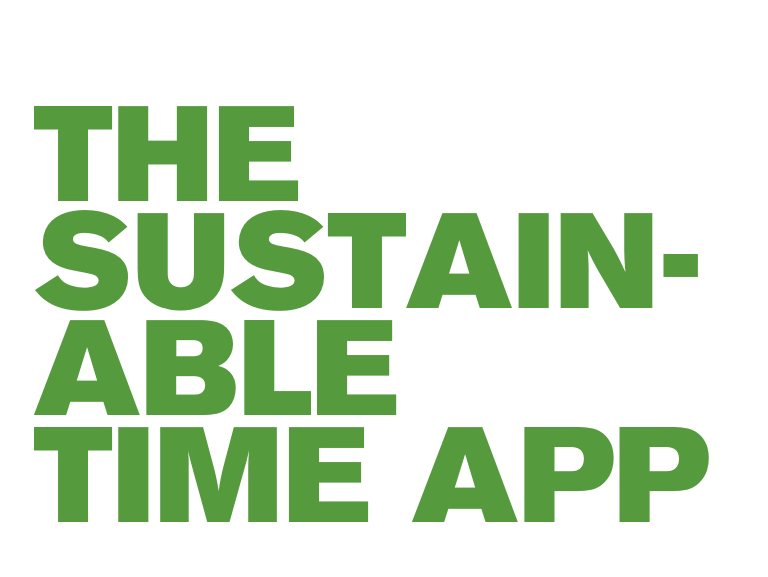
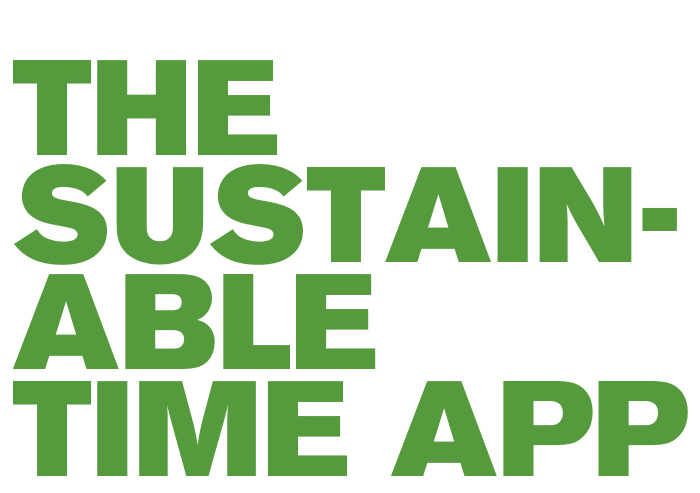
Styling fixed

Changed region(s): [[0.0, 0.1217, 0.99, 0.9736], [0.54, 0.7302, 0.99, 0.9736], [0.24, 0.5172, 0.27, 0.5477]]

diff --git a/code/src/components/activity.css b/code/src/components/activity.css
@@ -1,74 +1,65 @@
 
-.activity input, .activity button {
+.activity {
   display: flex;
   flex-direction: column;
-  flex-wrap: wrap;
-  margin: 10px auto;
-}
-
-.activity form {
   align-items: center;
+  margin-bottom: 10px;
 }
-
+.activity-wrapper {
+  display: flex;
+  flex-direction: column;
+}
 .activity input {
+  align-items: center;
   border: 4px solid #58b0e0;
   color: #58b0e0;
   font-size: 16px;
   font-weight: bold;
   height: 40px;
+  margin-bottom: 6px;
   padding: 4px;
   text-align: center;
-  width: 357px;
+  width: 356px;
 }
-
-.activity button {
+.activity-button {
   align-items: center;
   border: 4px solid #58b0e0;
+  color: #58b0e0;
+  font-size: 16px;
   height: 40px;
   padding-top: 6px;
-  width: 357px;
+  width: 356px;
 }
-.activity button:hover {
+.activity-button:hover {
   background-color: #58e087;
   border: 4px solid #58e087;
   color: white;
 }
-/* It's not fully functional, the  */
-.activity-button span:hover {
-  color: white;
-}
-.button-text {
-  color: #58b0e0;
-  font-size: 16px;
-}
+
 @media (min-width: 900px) {
   .activity input {
     font-size: 26px;
     height: 60px;
     padding: 4px;
-    width: 567px;
+    width: 566px;
   }
-  .activity button {
+  .activity-button {
+    font-size: 26px;
     height: 60px;
-    padding-top: 8px;
-    width: 567px;
-  }
-  .button-text {
-    font-size: 30px;
+    padding-top: 6px;
+    width: 566px;
   }
 }
 @media (min-width: 1120px) {
   .activity input {
     height: 60px;
     padding: 4px;
-    width: 847px;
+    width: 846px;
   }
-  .activity button {
+  .activity-button {
+    font-size: 36px;
     height: 60px;
     padding-top: 6px;
-    width: 847px;
-  }
-  .button-text {
-    font-size: 36px;
+    width: 846px;
   }
 }

diff --git a/code/src/components/activity.js b/code/src/components/activity.js
@@ -24,20 +24,23 @@ class Activity extends React.Component {
     return (
       <div className="activity">
         <form onSubmit={this.handleOnSubmit}>
-          <label>
-            <input
-              type="text"
-              name="activity"
-              placeholder="Type activity here"
-              value={this.state.newActivity}
-              onChange={this.handleOnChange}
-            />
-          </label>
-          <button className="activity-button">
-            <span className="button-text">
-              Click to submit activity
-            </span>
-          </button>
+          <div className="activity-wrapper">
+            <label>
+              <input
+                type="text"
+                name="activity"
+                placeholder="Type activity here"
+                value={this.state.newActivity}
+                onChange={this.handleOnChange}
+              />
+            </label>
+
+            <button className="activity-button">
+
+                Click to submit activity
+
+            </button>
+          </div>
         </form>
       </div>
     )

diff --git a/code/src/components/header.js b/code/src/components/header.js
@@ -8,10 +8,12 @@ class Header extends React.Component{
         <div className="header-image-container">
           <img className="header-image" src= { require('./images/time.jpeg') }  />
         </div>
-        <p>With this app you are able to track the time you spend on the activities of your choice.</p>
-        <div>
-          <p>1. Define the activity you want to track using the "Add Activity" field below.</p>
-          <p>2. Submit the time (minutes) you are dedicating to that activity.</p>
+        <h2>This app allows you to track the time spent on any activity of your choice.</h2>
+        <div className="instructions">
+          <p>1. Type and submit your activity with the form below.</p>
+          <p>2. Choose a day inside of your activity by clicking on it.</p>
+          <p>3. Input the time in minutes.</p>
+          <p>4. You can update that day by clicking again on it.</p>
         </div>
       </div>
     )

diff --git a/code/src/components/header.css b/code/src/components/header.css
@@ -1,42 +1,35 @@
 * {
-font-family: 'Roboto', sans-serif;
+font-family: 'Helvetica', sans-serif;
 }
 
 .header {
+  font-size: 14px;
   margin: 0px auto;
   padding: 0px;
-  width: 357px;
+  text-align: justify;
+  width: 356px;
 }
-
-.header h1 {
-  font-size: 30px;
-  text-align: center;
-}
-
-.header p {
-  font-size: 14px;
-  text-align: center;
-}
-
-.header ol {
-  font-size: 14px;
-  text-align: center;
-}
-
 .header-image {
   height: auto;
-  width: 357px;
+  width: 356px;
 }
-
-h1 {
-  color: #8dc746;
+.instructions {
+  text-align: left;
 }
 
 @media (min-width: 900px) {
   .header {
-    width: 567px;
+    width: 566px;
   }
-.header-image {
-  width: 567px;
+  .header-image {
+    width: 566px;
+  }
 }
+@media (min-width: 1120px) {
+  .header {
+    width: 846px;
+  }
+  .header-image {
+    width: 846px;
+  }
 }

diff --git a/code/src/components/day.js b/code/src/components/day.js
@@ -20,8 +20,8 @@ class Day extends React.Component {
       }
       else if(time == null) {
       }
-        else {
-        this.props.callbackTimeTable(time, this.props.indexcolumn, this.props.indexrow)
+      else {
+      this.props.callbackTimeTable(time, this.props.indexcolumn, this.props.indexrow)
       }
   }
 

diff --git a/code/src/components/calendar.css b/code/src/components/calendar.css
@@ -25,6 +25,9 @@
   text-align: center;
   width: 50px;
 }
+.last-daybox {
+  margin-right: 0px;
+}
 .select-week {
   background-color: #93f9b7;
   border: 4px solid #58e087;
@@ -55,7 +58,7 @@
 }
 @media (min-width: 1120px) {
   .select-week{
-    width: 847px;
+    width: 846px;
   }
   .daybox {
     font-size: 60px;

diff --git a/code/src/components/calendar.js b/code/src/components/calendar.js
@@ -18,7 +18,7 @@ class Calendar extends React.Component {
           <div className="daybox">T</div>
           <div className="daybox">F</div>
           <div className="daybox">S</div>
-          <div className="daybox">S</div>
+          <div className="daybox last-daybox">S</div>
         </div>
       </div>
     )
